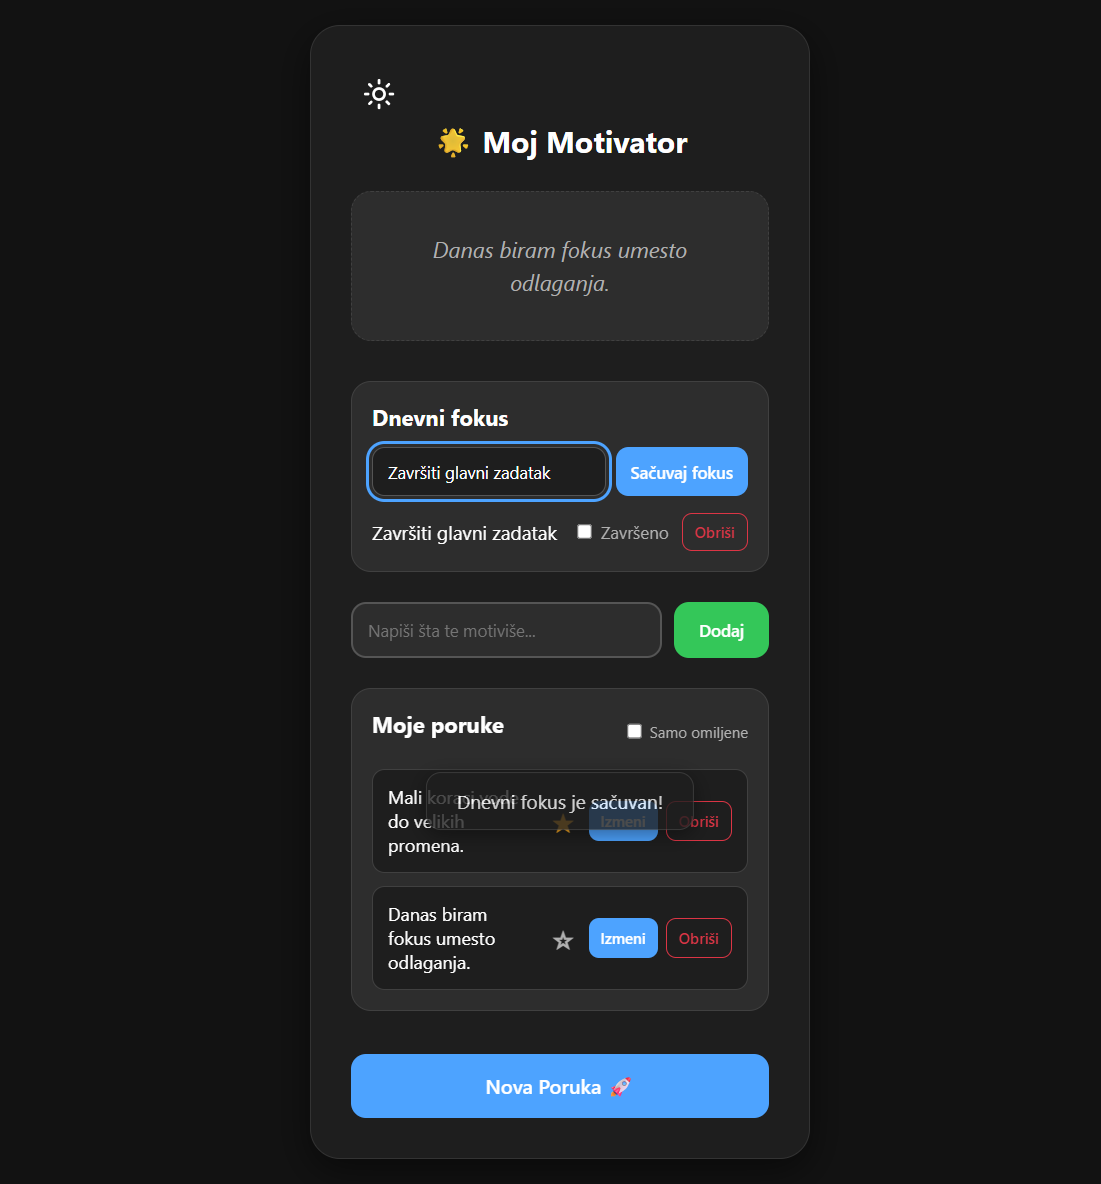
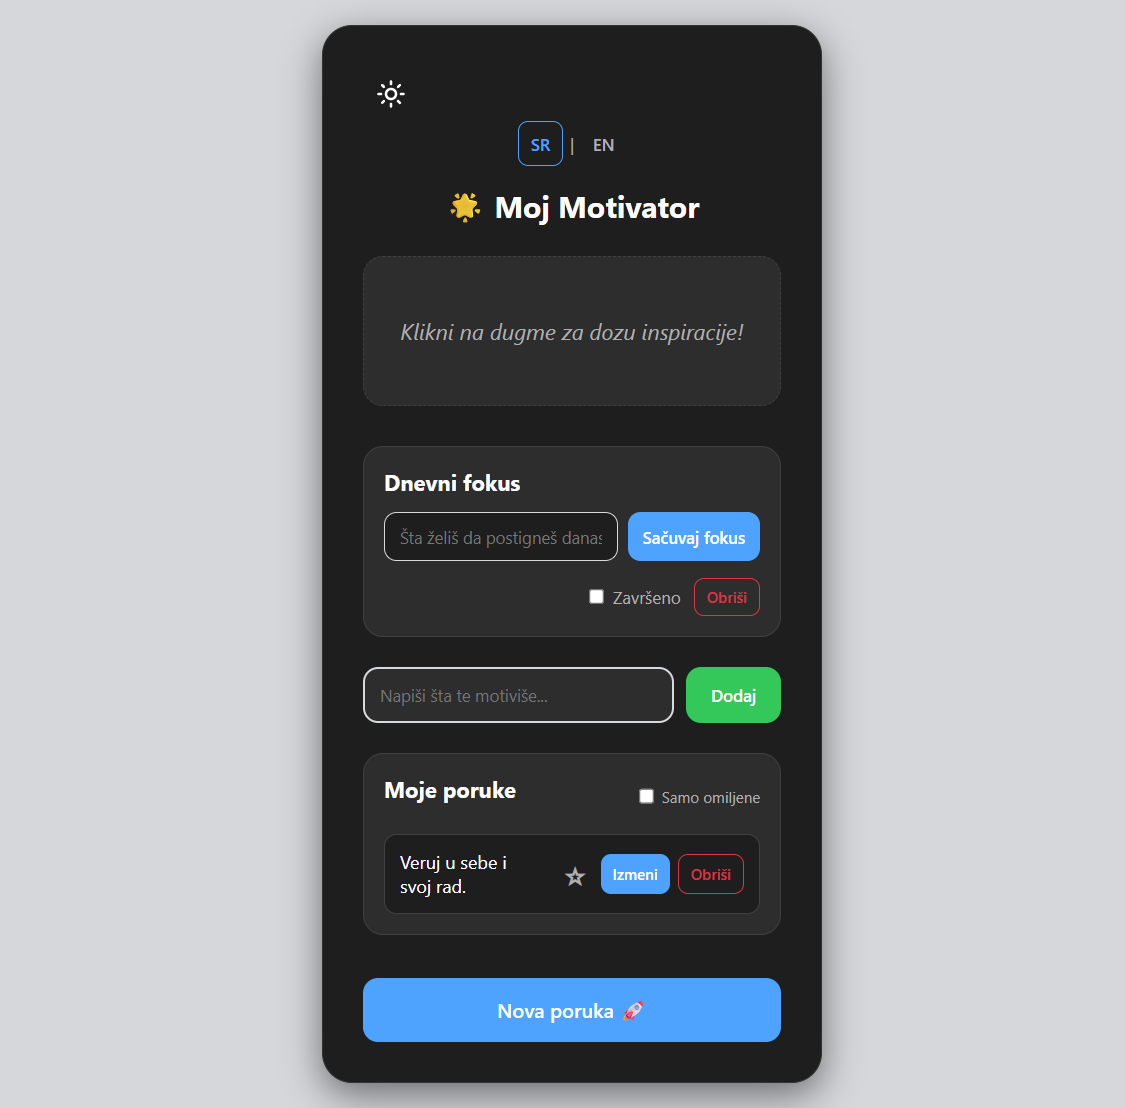
docs: update screenshots and README for i18n support

diff --git a/index.html b/index.html
@@ -20,8 +20,8 @@
       property="og:image"
       content="https://it-moj-motivator.netlify.app/light-screenshot.png"
     />
-    <meta property="og:image:width" content="1101" />
-    <meta property="og:image:height" content="1184" />
+    <meta property="og:image:width" content="1106" />
+    <meta property="og:image:height" content="1108" />
     <meta
       property="og:image:alt"
       content="Moj Motivator application interface"

diff --git a/README.md b/README.md
@@ -6,7 +6,7 @@ Moj Motivator is a browser-based tool for daily focus, personal motivational mes
 
 **Status:** Completed static front-end prototype. The application has no build process, backend, or user accounts.
 
-The user interface and notifications are currently available in Serbian.
+The user interface is available in Serbian and English.
 
 ## 🎯 Why This Project
 
@@ -20,6 +20,7 @@ Moj Motivator was built as a focused personal productivity tool rather than a si
 
 ## ✨ Features
 
+- **Bilingual Interface (i18n):** Switch instantly between Serbian and English, with the selected language persisted across reloads.
 - **Daily Focus:** Save one focus for the current day, mark it as completed, edit it, or delete it.
 - **Message Generator:** Display random motivational messages while avoiding immediate repetition.
 - **Personal Messages:** Add, edit inline, and delete custom motivational messages.
@@ -36,6 +37,7 @@ Moj Motivator was built as a focused personal productivity tool rather than a si
 - **HTML5:** Semantic structure and accessible forms.
 - **CSS3:** CSS custom properties for theming, responsive layout, and `:focus-visible` styles.
 - **Vanilla JavaScript:** DOM interactions, validation, state management, and browser storage.
+- **i18n:** Dictionary-based translation module (`js/i18n.js`) for Serbian and English strings.
 - **Lucide Icons:** Icons loaded through the CDN.
 - **Jest:** Unit tests for the pure message-logic layer.
 
@@ -47,7 +49,9 @@ moj-motivator/
 ├── css/style.css
 ├── js/main.js
 ├── js/message-logic.js
+├── js/i18n.js
 ├── tests/message-logic.test.js
+├── tests/i18n.test.js
 ├── images/
 ├── light-screenshot.png
 ├── dark-screenshot.png
@@ -59,6 +63,7 @@ moj-motivator/
 
 ## ✅ Current Status
 
+- [x] Serbian/English language switcher with persisted selection
 - [x] Daily Focus save, completion, edit, and delete flow
 - [x] Persistent custom messages with inline edit and delete actions
 - [x] Favorites and favorites-only filtering
